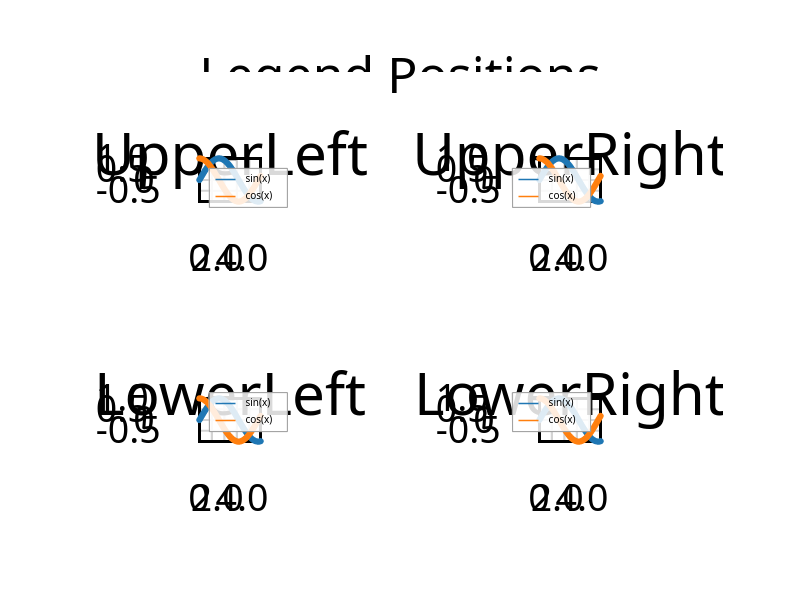
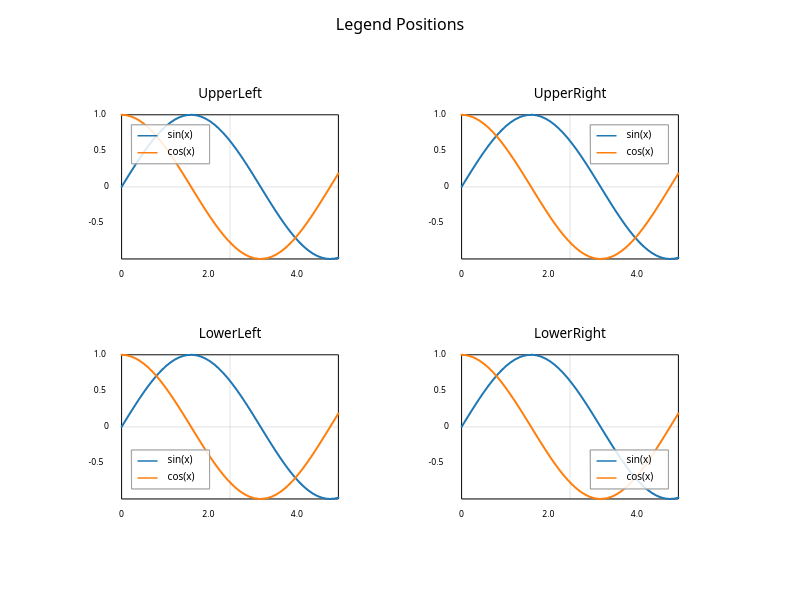
Fix subplot text overlap by normalizing DPI for subplot rendering
The subplot rendering had a critical issue where fonts were scaled by
the figure's DPI (e.g., 300) but rendered to fixed-size pixel canvases.
This caused text to be 3x too large when using high DPI exports.

Changes:
- Add Plot::scale_typography() method for manual typography scaling
- Render subplots at normalized DPI (96) instead of figure DPI
- Add adaptive tick count based on plot area dimensions
- Fix suptitle to use fixed pixel sizes

The adaptive tick generation uses ~100px per x-tick and ~60px per y-tick
minimum spacing, with 2-10 tick range for x-axis and 2-8 for y-axis.

diff --git a/src/core/plot/mod.rs b/src/core/plot/mod.rs
@@ -437,6 +437,27 @@ impl Plot {
         self.theme.clone()
     }
 
+    /// Scale typography by a factor
+    ///
+    /// This is useful for rendering plots to smaller canvases (like subplots)
+    /// where the default font sizes would be too large.
+    ///
+    /// # Example
+    ///
+    /// ```rust
+    /// use ruviz::prelude::*;
+    ///
+    /// let plot = Plot::new()
+    ///     .line(&[1.0, 2.0], &[1.0, 4.0])
+    ///     .end_series()
+    ///     .title("Scaled Plot")
+    ///     .scale_typography(0.7); // 70% of normal font sizes
+    /// ```
+    pub fn scale_typography(mut self, factor: f32) -> Self {
+        self.config.typography = self.config.typography.scale(factor);
+        self
+    }
+
     /// Configure parallel rendering settings
     #[cfg(feature = "parallel")]
     pub fn with_parallel(mut self, threads: Option<usize>) -> Self {
@@ -2709,9 +2730,12 @@ impl Plot {
                 }
             };
 
-        // Generate nice tick values
-        let x_ticks = generate_ticks(x_min, x_max, 8);
-        let y_ticks = generate_ticks(y_min, y_max, 6);
+        // Generate nice tick values - adapt count to available space
+        // Use ~100px per x-tick and ~60px per y-tick as minimum spacing for readability
+        let x_tick_count = ((plot_area.width() / 100.0) as usize).clamp(2, 10);
+        let y_tick_count = ((plot_area.height() / 60.0) as usize).clamp(2, 8);
+        let x_ticks = generate_ticks(x_min, x_max, x_tick_count);
+        let y_ticks = generate_ticks(y_min, y_max, y_tick_count);
 
         // Convert ticks to pixel coordinates
         let x_tick_pixels: Vec<f32> = x_ticks
@@ -3122,9 +3146,12 @@ impl Plot {
             }
         };
 
-        // Generate nice tick values
-        let x_ticks = generate_ticks(x_min, x_max, 8);
-        let y_ticks = generate_ticks(y_min, y_max, 6);
+        // Generate nice tick values - adapt count to available space
+        // Use ~100px per x-tick and ~60px per y-tick as minimum spacing for readability
+        let x_tick_count = ((plot_area.width() / 100.0) as usize).clamp(2, 10);
+        let y_tick_count = ((plot_area.height() / 60.0) as usize).clamp(2, 8);
+        let x_ticks = generate_ticks(x_min, x_max, x_tick_count);
+        let y_ticks = generate_ticks(y_min, y_max, y_tick_count);
 
         // Convert ticks to pixel coordinates
         let x_tick_pixels: Vec<f32> = x_ticks
@@ -3616,9 +3643,12 @@ impl Plot {
             y_max: bounds.3,
         };
 
-        // Generate nice tick values
-        let x_ticks = generate_ticks(bounds.0, bounds.1, 8);
-        let y_ticks = generate_ticks(bounds.2, bounds.3, 6);
+        // Generate nice tick values - adapt count to available space
+        // Use ~100px per x-tick and ~60px per y-tick as minimum spacing for readability
+        let x_tick_count = ((plot_area.width() / 100.0) as usize).clamp(2, 10);
+        let y_tick_count = ((plot_area.height() / 60.0) as usize).clamp(2, 8);
+        let x_ticks = generate_ticks(bounds.0, bounds.1, x_tick_count);
+        let y_ticks = generate_ticks(bounds.2, bounds.3, y_tick_count);
 
         // Convert ticks to pixel coordinates
         let x_tick_pixels: Vec<f32> = x_ticks

diff --git a/src/core/subplot.rs b/src/core/subplot.rs
@@ -336,9 +336,10 @@ impl SubplotFigure {
         let mut renderer = SkiaRenderer::new(self.width, self.height, theme)?;
 
         // Render figure title if present
+        // Use fixed pixel sizes since main renderer uses figure dimensions (not DPI-scaled)
         if let Some(title) = &self.suptitle {
-            let title_y = 30.0 * (dpi / 96.0); // DPI-scaled title position
-            let title_size = 16.0 * (dpi / 96.0); // DPI-scaled title size
+            let title_y = 30.0_f32; // Fixed position in pixels
+            let title_size = 16.0_f32; // Fixed size in pixels
 
             renderer.draw_text_centered(
                 title,
@@ -357,16 +358,29 @@ impl SubplotFigure {
                     self.grid
                         .subplot_rect(index, self.width, self.height, self.margin)?;
 
+                // Calculate typography scale factor based on subplot size and DPI
+                // Subplots are rendered to fixed-size canvases, so we need to:
+                // 1. Scale down for small subplot dimensions
+                // 2. Use a normalized DPI (96) to avoid giant fonts at high DPI
+                let reference_dim = 300.0_f32;
+                let subplot_min_dim = subplot_rect.width().min(subplot_rect.height());
+                let size_scale = (subplot_min_dim / reference_dim).clamp(0.35, 1.0);
+
+                // Clone plot and scale typography for small subplots
+                let scaled_plot = plot.clone().scale_typography(size_scale);
+
                 // Create a temporary renderer for this subplot
-                let subplot_theme = plot.get_theme();
+                let subplot_theme = scaled_plot.get_theme();
                 let mut subplot_renderer = SkiaRenderer::new(
                     subplot_rect.width() as u32,
                     subplot_rect.height() as u32,
                     subplot_theme,
                 )?;
 
-                // Render the plot into the subplot area
-                plot.render_to_renderer(&mut subplot_renderer, dpi)?;
+                // Render subplot at normalized DPI (96) since canvas is already sized
+                // This prevents fonts from being scaled up with figure DPI
+                let subplot_dpi = 96.0_f32;
+                scaled_plot.render_to_renderer(&mut subplot_renderer, subplot_dpi)?;
 
                 // Copy subplot renderer to main renderer at correct position
                 renderer.draw_subplot(
